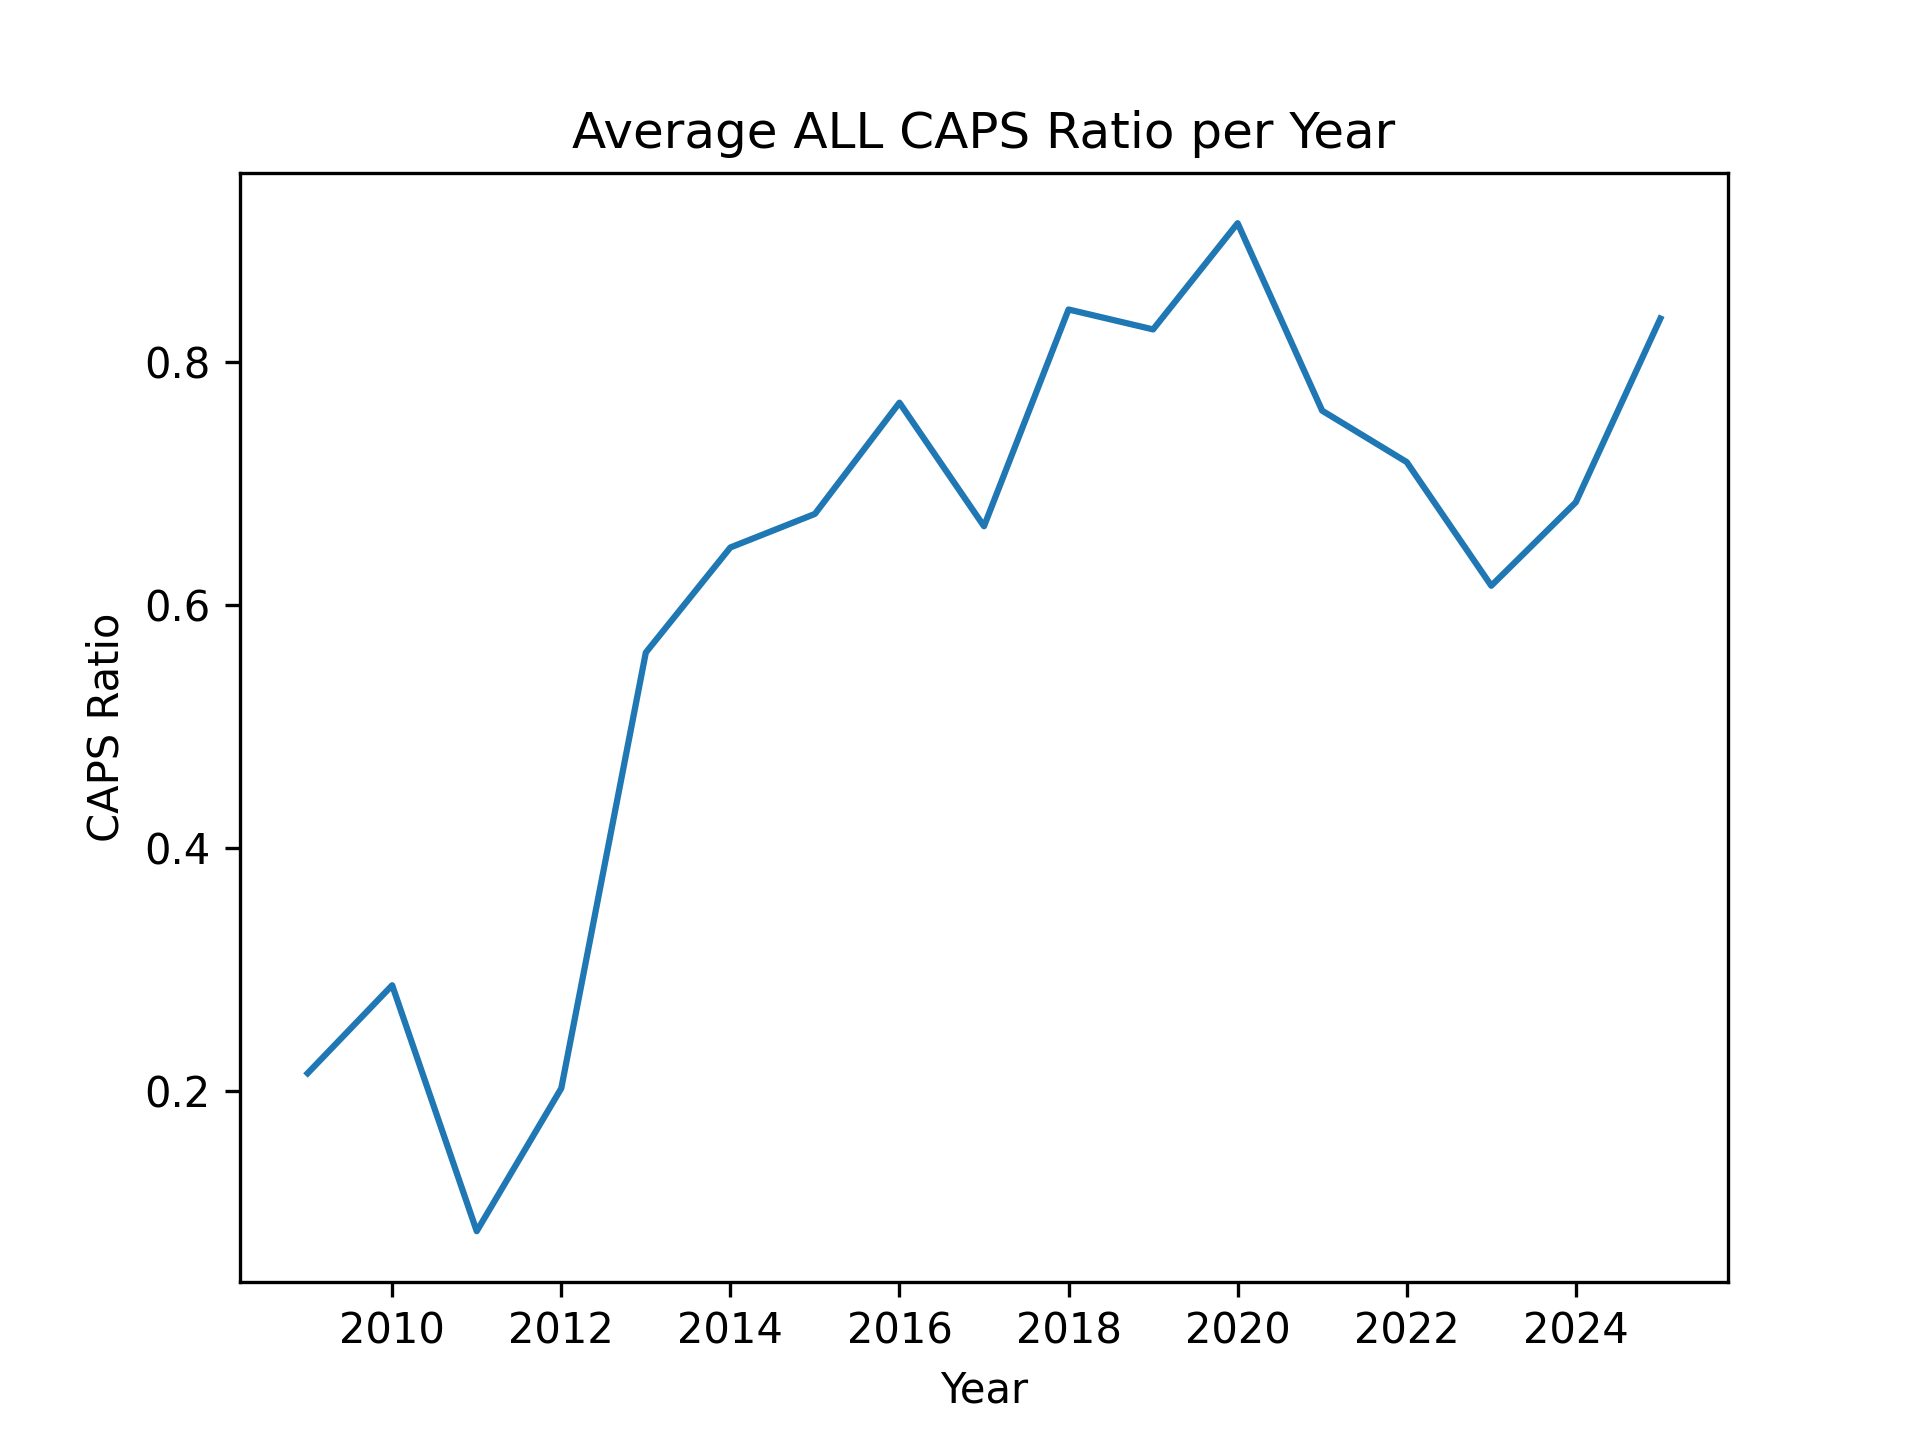
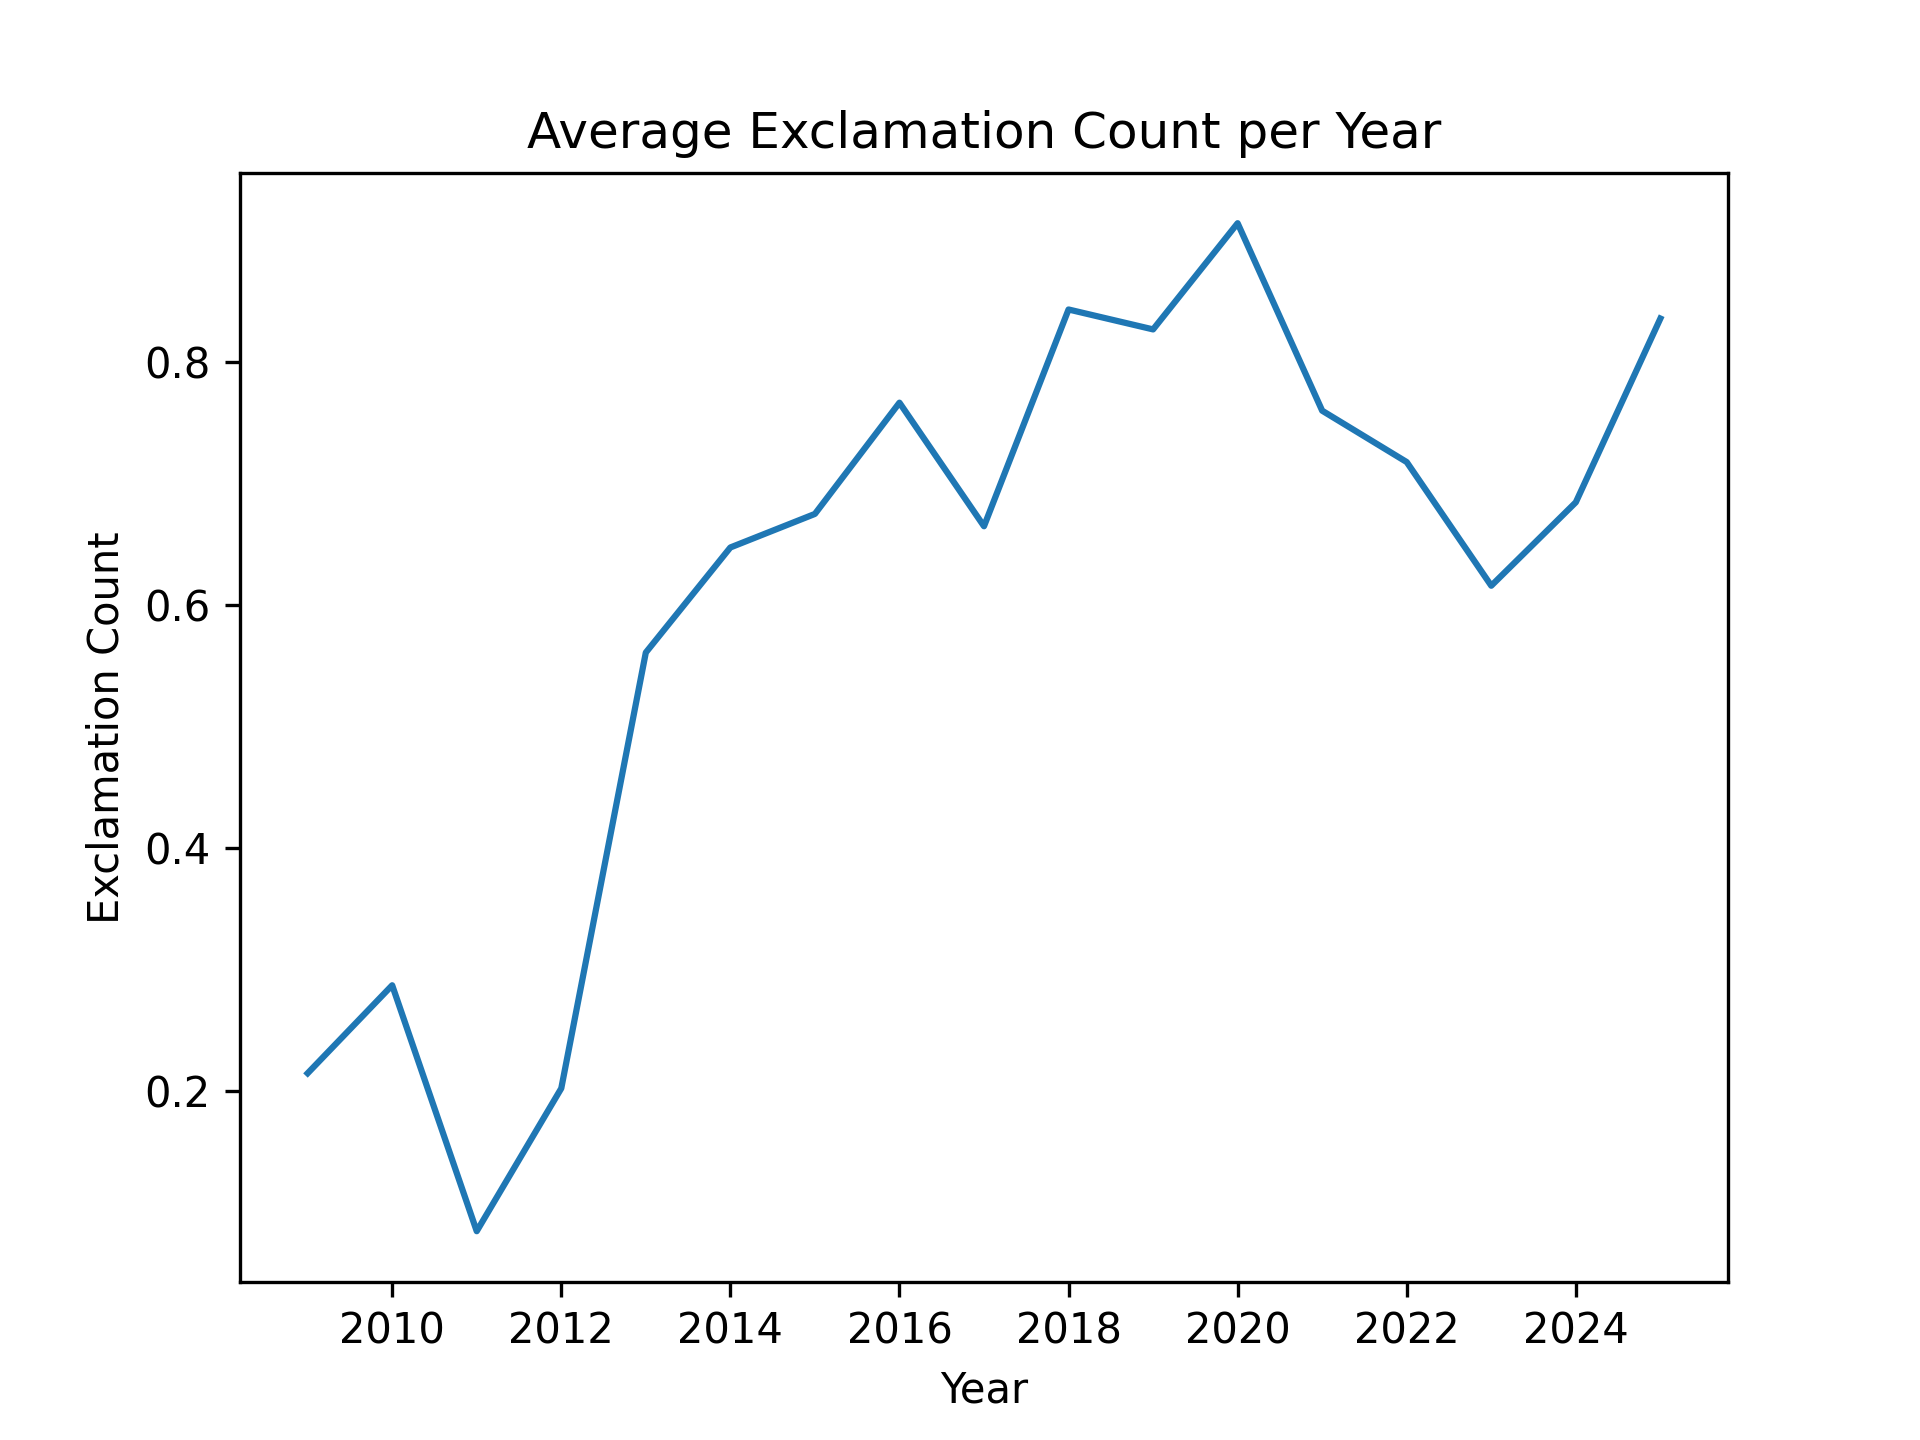
improved version with wordcloud and stopwords

Changed region(s): [[0.2812, 0.0625, 0.75, 0.125], [0.0312, 0.375, 0.0625, 0.6562]]

diff --git a/cas-ai/modul05/text-mining/text-mining.py b/cas-ai/modul05/text-mining/text-mining.py
@@ -3,99 +3,162 @@ import re
 import matplotlib.pyplot as plt
 from nltk.sentiment import SentimentIntensityAnalyzer
 
-import nltk
-nltk.download("vader_lexicon")
-
 ###
 # Getting started:
-# pip install pandas nltk matplotlib
+# pip install pandas nltk matplotlib wordcloud
 ###
 
-# -----------------------------
-# 1. CSV laden
-# -----------------------------
-df = pd.read_csv("donal_trump_tweet_history_2009_2025/djt_posts_dec2025.csv")
+# =====================================================
+# 1. Daten laden & vorbereiten
+# =====================================================
+df = pd.read_csv("donald_trump_tweet_history_2009_2025/djt_posts_dec2025.csv")
 
 # Datum parsen
 df["date"] = pd.to_datetime(df["date"], utc=True)
 df["year"] = df["date"].dt.year
 
-# Nur Originalposts (keine Reposts)
+# Nur Originalposts
 df = df[df["repost_flag"] == False]
 
-# -----------------------------
-# 2. Text Cleaning (minimal, erklärbar)
-# -----------------------------
+# Leere Texte abfangen
+df["text"] = df["text"].fillna("")
+df["word_count"] = df["word_count"].fillna(0)
+
+# nur echte Textposts
+df = df[df["word_count"] > 0]
+
+# =====================================================
+# 2. Text Cleaning (minimal & transparent)
+# =====================================================
+
 def clean_text(text):
-    if pd.isna(text):
-        return ""
     text = text.lower()
-    text = re.sub(r"http\S+", "", text)   # URLs entfernen
+    text = re.sub(r"http\S+", "", text)
     text = re.sub(r"\s+", " ", text)
     return text.strip()
 
 df["clean_text"] = df["text"].apply(clean_text)
 
-# -----------------------------
-# 3. Feature Engineering
-# -----------------------------
+# =====================================================
+# 3. Sentiment (VADER)
+# =====================================================
 
-# 3.1 Sentiment (VADER)
 sia = SentimentIntensityAnalyzer()
+
 df["sentiment"] = df["clean_text"].apply(
     lambda x: sia.polarity_scores(x)["compound"]
 )
 
-# 3.2 ALL CAPS Anteil
+# =====================================================
+# 4. Emphase-Features
+# =====================================================
+
+# 4.1 ALL CAPS Ratio
 def caps_ratio(text):
     if not isinstance(text, str):
         return 0.0
-
-    words = re.findall(r"\b[A-Z]{2,}\b", text)
+    caps_words = re.findall(r"\b[A-Z]{2,}\b", text)
     total_words = len(text.split())
-
-    return len(words) / total_words if total_words > 0 else 0.0
-
+    return len(caps_words) / total_words if total_words > 0 else 0.0
 
 df["caps_ratio"] = df["text"].apply(caps_ratio)
 
-# 3.3 Ausrufezeichen
+# 4.2 Ausrufezeichen
 df["exclamation_count"] = df["text"].str.count("!")
 
-# 3.4 Superlative / extreme Begriffe (einfaches Lexikon)
+# =====================================================
+# 5. Extreme Language – saubere Definition
+# =====================================================
+
 SUPERLATIVES = [
-    "best", "worst", "greatest", "tremendous",
-    "disaster", "total", "incredible", "fraud"
+    "best", "worst", "greatest", "biggest", "strongest",
+    "weakest", "largest", "smallest", "highest", "lowest"
 ]
 
-def contains_superlative(text):
-    return any(word in text for word in SUPERLATIVES)
+INTENSIFIERS = [
+    "very", "totally", "extremely", "absolutely",
+    "completely", "highly", "incredibly", "tremendously"
+]
 
-df["has_superlative"] = df["clean_text"].apply(contains_superlative)
+ABSOLUTES = [
+    "never", "always", "everyone", "nobody",
+    "nothing", "everything", "all", "none"
+]
 
-# -----------------------------
-# 4. Aggregation pro Jahr
-# -----------------------------
+def count_matches(text, lexicon):
+    if not isinstance(text, str):
+        return 0
+    tokens = re.findall(r"\b[a-z]+\b", text.lower())
+    return sum(1 for t in tokens if t in lexicon)
+
+df["superlative_count"] = df["clean_text"].apply(
+    lambda x: count_matches(x, SUPERLATIVES)
+)
+
+df["intensifier_count"] = df["clean_text"].apply(
+    lambda x: count_matches(x, INTENSIFIERS)
+)
+
+df["absolute_count"] = df["clean_text"].apply(
+    lambda x: count_matches(x, ABSOLUTES)
+)
+
+# Normalisierung pro 100 Wörter
+df["superlatives_per_100w"] = (df["superlative_count"] / df["word_count"]) * 100
+df["intensifiers_per_100w"] = (df["intensifier_count"] / df["word_count"]) * 100
+df["absolutes_per_100w"] = (df["absolute_count"] / df["word_count"]) * 100
+
+# =====================================================
+# 6. Aggregation pro Jahr
+# =====================================================
+
 yearly = df.groupby("year").agg({
-    "sentiment": "mean",
+    "sentiment": ["mean", "std"],
     "caps_ratio": "mean",
     "exclamation_count": "mean",
-    "has_superlative": "mean",
+    "superlatives_per_100w": "mean",
+    "intensifiers_per_100w": "mean",
+    "absolutes_per_100w": "mean",
     "text": "count"
-}).rename(columns={"text": "post_count"}).reset_index()
+}).reset_index()
 
-# -----------------------------
-# 5. Visualisierung
-# -----------------------------
+yearly.columns = [
+    "year",
+    "sentiment_mean",
+    "sentiment_std",
+    "caps_ratio",
+    "exclamation_count",
+    "superlatives_per_100w",
+    "intensifiers_per_100w",
+    "absolutes_per_100w",
+    "post_count"
+]
 
+print(yearly.tail())
+
+# =====================================================
+# 7. Visualisierungen
+# =====================================================
+
+# Sentiment Mittelwert
 plt.figure()
-plt.plot(yearly["year"], yearly["sentiment"])
+plt.plot(yearly["year"], yearly["sentiment_mean"])
 plt.title("Average Sentiment per Year")
 plt.xlabel("Year")
 plt.ylabel("Sentiment (VADER)")
-plt.savefig('m05_01_txt_mining_sentiment.png', dpi=300)
+plt.savefig('m05_01_mean_sentiment.png', dpi=300)
 plt.show()
 
+# Sentiment Varianz
+plt.figure()
+plt.plot(yearly["year"], yearly["sentiment_std"])
+plt.title("Sentiment Variability per Year")
+plt.xlabel("Year")
+plt.ylabel("Sentiment Standard Deviation")
+plt.savefig('m05_01_std_sentiment.png', dpi=300)
+plt.show()
+
+# ALL CAPS
 plt.figure()
 plt.plot(yearly["year"], yearly["caps_ratio"])
 plt.title("Average ALL CAPS Ratio per Year")
@@ -104,23 +167,126 @@ plt.ylabel("CAPS Ratio")
 plt.savefig('m05_01_caps_ratio.png', dpi=300)
 plt.show()
 
+# Exclamation
 plt.figure()
 plt.plot(yearly["year"], yearly["exclamation_count"])
-plt.title("Average ALL CAPS Ratio per Year")
+plt.title("Average Exclamation Count per Year")
 plt.xlabel("Year")
-plt.ylabel("CAPS Ratio")
+plt.ylabel("Exclamation Count")
 plt.savefig('m05_01_exclamation_count.png', dpi=300)
 plt.show()
 
+# Extreme Language
 plt.figure()
-plt.plot(yearly["year"], yearly["has_superlative"])
-plt.title("Share of Posts with Superlatives")
+plt.plot(yearly["year"], yearly["superlatives_per_100w"], label="Superlatives")
+plt.plot(yearly["year"], yearly["intensifiers_per_100w"], label="Intensifiers")
+plt.plot(yearly["year"], yearly["absolutes_per_100w"], label="Absolutes")
+plt.title("Extreme Language per 100 Words")
 plt.xlabel("Year")
-plt.ylabel("Proportion")
-plt.savefig('m05_01_superlatives_proportion.png', dpi=300)
+plt.ylabel("Frequency")
+plt.legend()
+plt.savefig('m05_01_extreme_lang.png', dpi=300)
 plt.show()
 
-# -----------------------------
-# 6. Ausgabe für Interpretation
-# -----------------------------
-print(yearly)
+# =====================================================
+# 8. Wortfrequenzen (gesamt)
+# =====================================================
+
+from collections import Counter
+from nltk.corpus import stopwords
+from wordcloud import WordCloud
+import nltk
+
+nltk.download("stopwords")
+
+# ---------------------------------------------
+# 8.1 Stopwords definieren
+# ---------------------------------------------
+
+STOPWORDS = set(stopwords.words("english"))
+
+# Korpus-spezifische Stopwords, twitter/truthsocial overhead
+CUSTOM_STOPWORDS = {
+    "trump", "donald", "realdonaldtrump",
+    "twitter", "pic", "image", "rt",
+    "amp", "https", "http", "com", "get"
+}
+
+ALL_STOPWORDS = STOPWORDS.union(CUSTOM_STOPWORDS)
+
+# ---------------------------------------------
+# 8.2 Tokenisierung & Frequenzen
+# ---------------------------------------------
+
+tokens = re.findall(r"\b[a-z]+\b", " ".join(df["clean_text"]))
+
+# laenge >2 um rauschen zu vermeiden
+filtered_tokens = [
+    t for t in tokens
+    if t not in ALL_STOPWORDS and len(t) > 2
+]
+
+word_freq = Counter(filtered_tokens)
+
+# Top 20
+top_words = pd.DataFrame(
+    word_freq.most_common(20),
+    columns=["word", "count"]
+)
+
+print(top_words)
+
+
+# =====================================================
+# 9. Visualisierung – häufigste Wörter
+# =====================================================
+
+# ---------------------------------------------
+# 9.1 Wordcloud – gesamter Zeitraum
+# ---------------------------------------------
+
+wc = WordCloud(
+    width=1400,
+    height=700,
+    background_color="white",
+    stopwords=ALL_STOPWORDS,
+    max_words=150,
+    min_font_size=10,
+    collocations=False  # extrem wichtig!
+)
+
+wc.generate_from_frequencies(word_freq)
+
+plt.figure(figsize=(14, 7))
+plt.imshow(wc, interpolation="bilinear")
+plt.axis("off")
+plt.title("Wordcloud – Most Frequent Words (Trump Tweets 2009–2025)")
+plt.savefig("m05_01_wordcloud_all.png", dpi=300, bbox_inches="tight")
+plt.show()
+
+# ---------------------------------------------
+# 9.2 Bigramme bilden
+# ---------------------------------------------
+
+bigrams = zip(filtered_tokens, filtered_tokens[1:])
+bigram_freq = Counter(
+    [" ".join(b) for b in bigrams]
+)
+
+wc_bigram = WordCloud(
+    width=1400,
+    height=700,
+    background_color="white",
+    max_words=100,
+    collocations=False
+)
+
+wc_bigram.generate_from_frequencies(bigram_freq)
+
+plt.figure(figsize=(14, 7))
+plt.imshow(wc_bigram, interpolation="bilinear")
+plt.axis("off")
+#plt.title("Bigram Wordcloud – Frequent Phrases")
+plt.savefig("m05_01_wordcloud_bigrams.png", dpi=300, bbox_inches="tight")
+plt.show()
+
